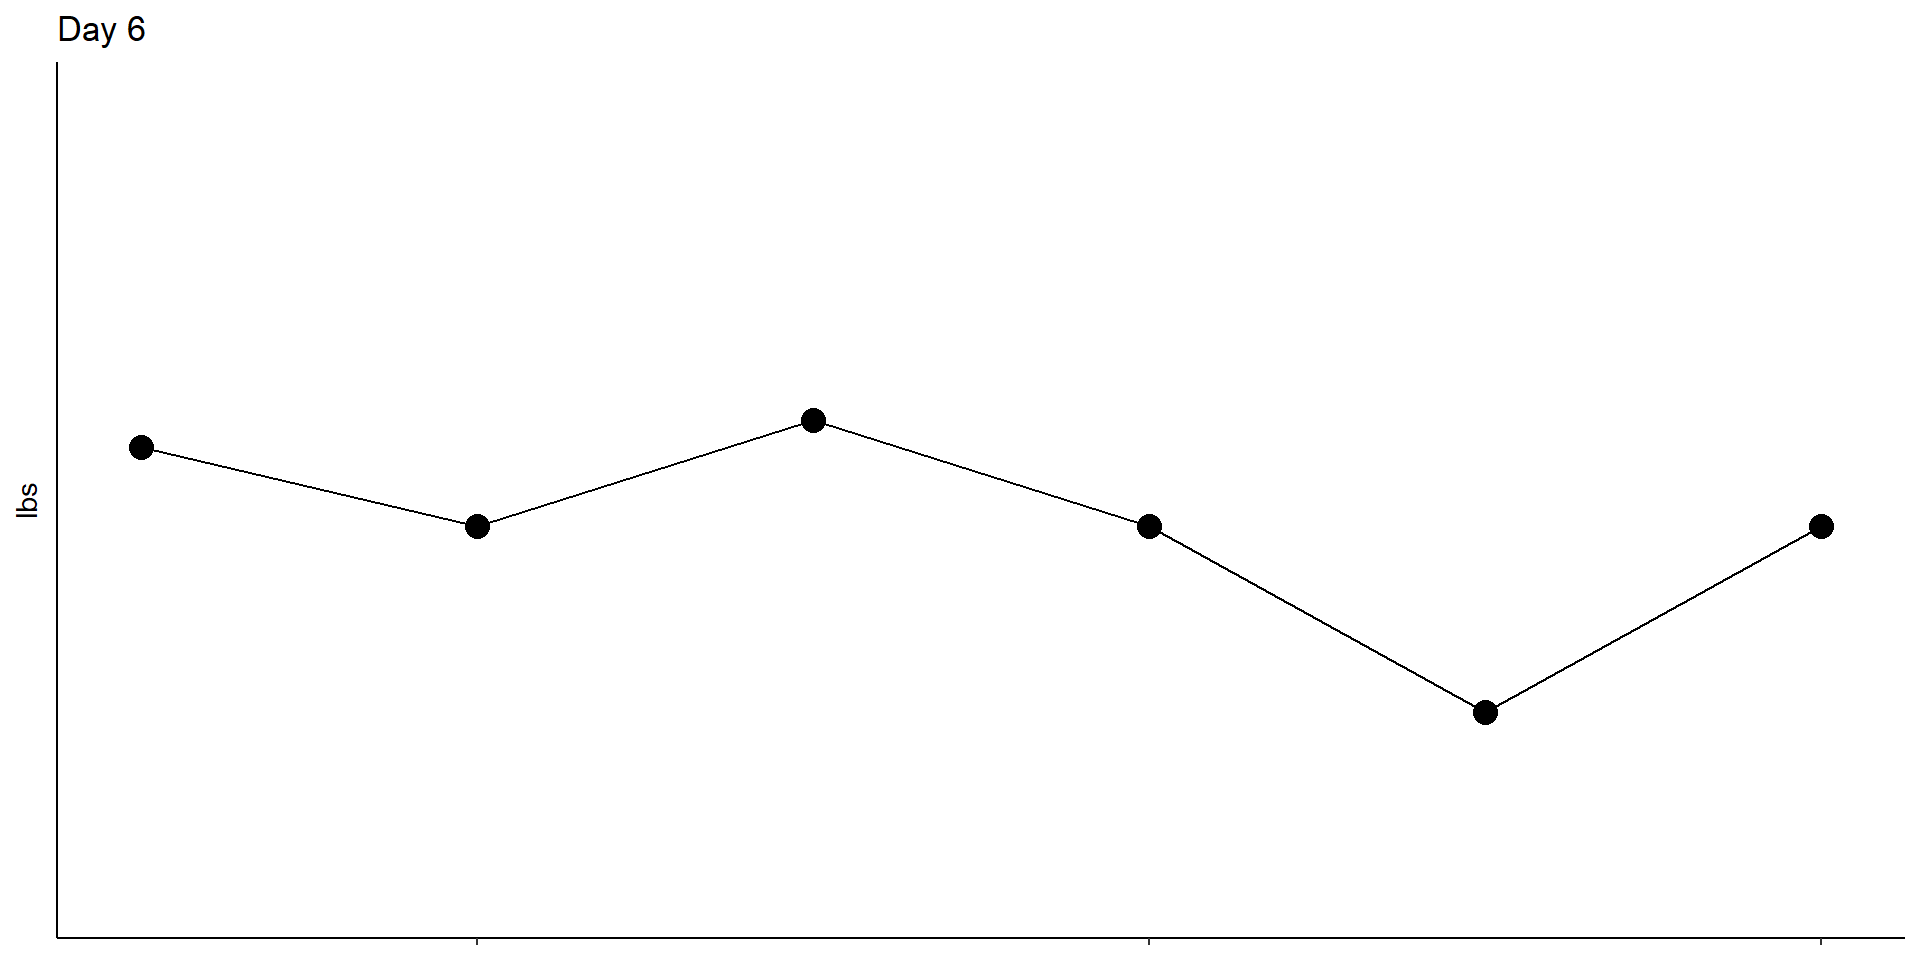
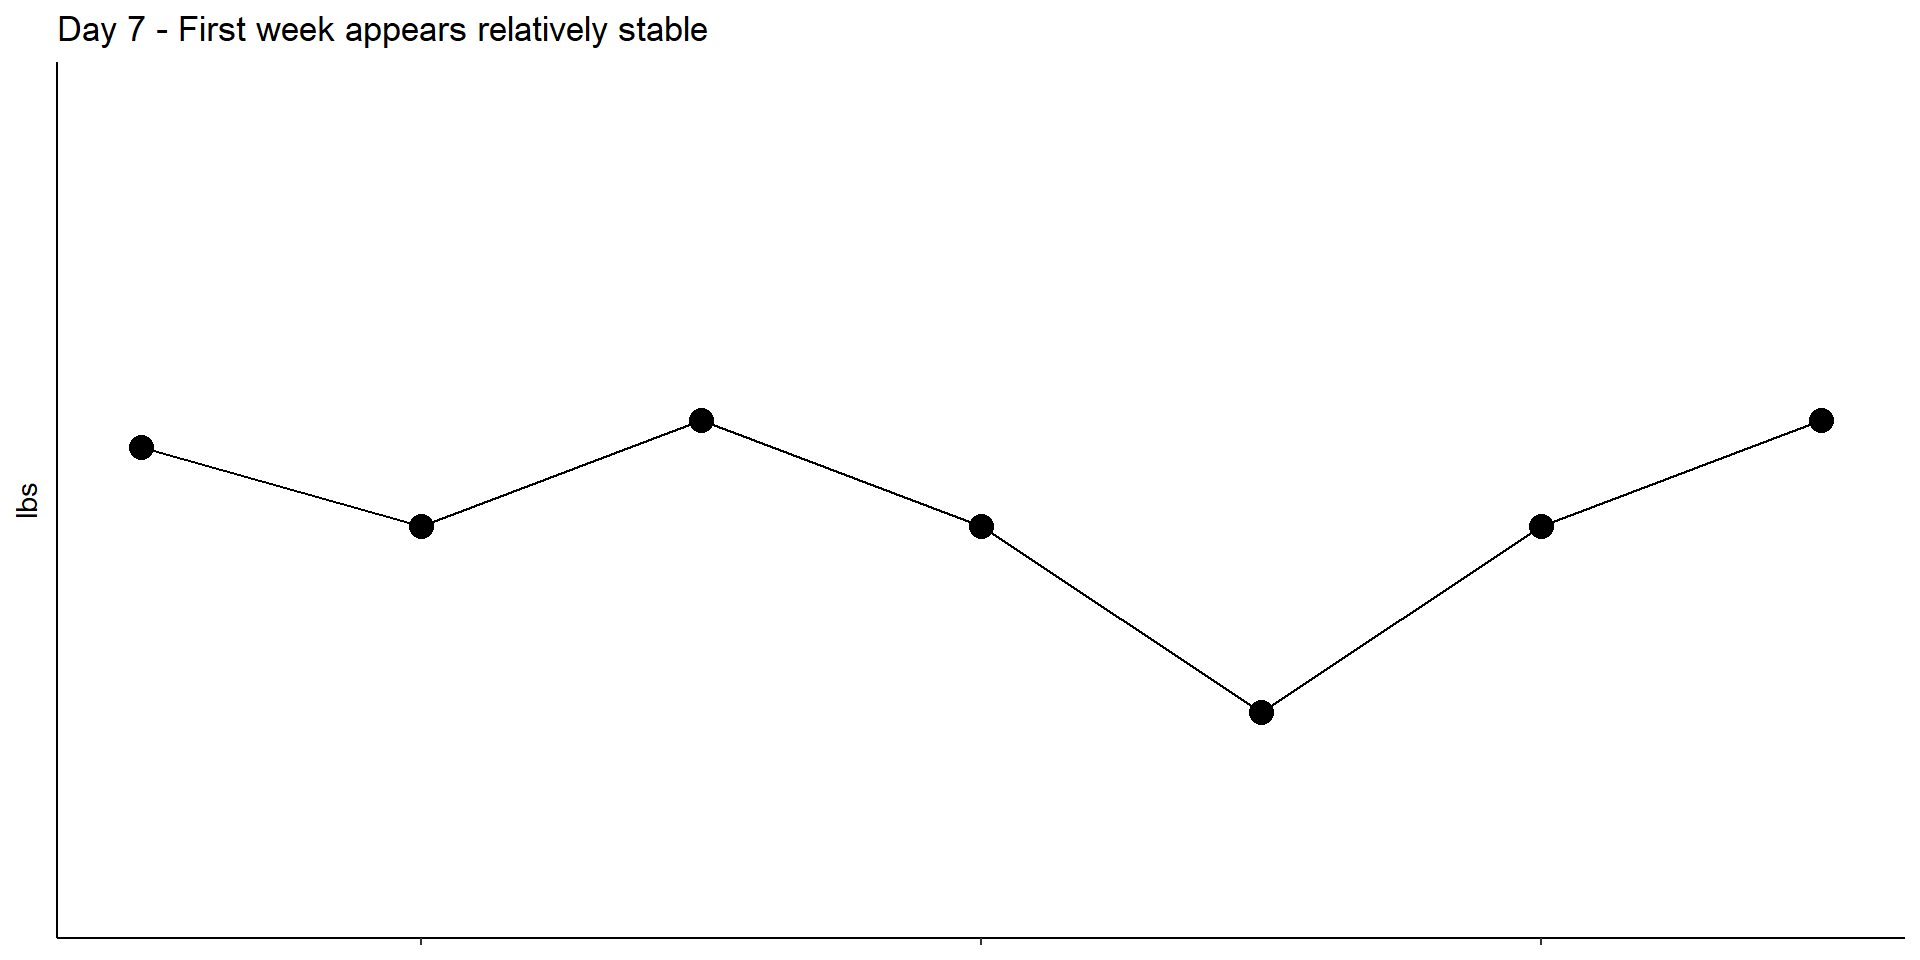
SPC project updates today

diff --git a/docs/realtime-SPC/index.html b/docs/realtime-SPC/index.html
@@ -129,19 +129,9 @@ ul.task-list li input[type="checkbox"] {
   <li><a href="#why-is-this-project-important" id="toc-why-is-this-project-important" class="nav-link" data-scroll-target="#why-is-this-project-important">Why is this project important?</a>
   <ul class="collapse">
   <li><a href="#starting-a-new-control-chart" id="toc-starting-a-new-control-chart" class="nav-link" data-scroll-target="#starting-a-new-control-chart">Starting a new control chart</a></li>
-  <li><a href="#run-chart-to-begin" id="toc-run-chart-to-begin" class="nav-link" data-scroll-target="#run-chart-to-begin">Run Chart to begin</a>
-  <ul class="collapse">
+  <li><a href="#run-chart-to-begin" id="toc-run-chart-to-begin" class="nav-link" data-scroll-target="#run-chart-to-begin">Run Chart to begin</a></li>
   <li><a href="#first-point" id="toc-first-point" class="nav-link" data-scroll-target="#first-point">First point</a></li>
-  <li><a href="#day-2-62425" id="toc-day-2-62425" class="nav-link" data-scroll-target="#day-2-62425">Day 2, 6/24/25</a></li>
-  <li><a href="#day-3-62525" id="toc-day-3-62525" class="nav-link" data-scroll-target="#day-3-62525">Day 3, 6/25/25</a></li>
-  <li><a href="#day-4-62625" id="toc-day-4-62625" class="nav-link" data-scroll-target="#day-4-62625">Day 4, 6/26/25</a></li>
-  <li><a href="#day-5-62725" id="toc-day-5-62725" class="nav-link" data-scroll-target="#day-5-62725">Day 5, 6/27/25</a></li>
-  <li><a href="#day-6-62825" id="toc-day-6-62825" class="nav-link" data-scroll-target="#day-6-62825">Day 6, 6/28/25</a></li>
-  <li><a href="#day-7-62925" id="toc-day-7-62925" class="nav-link" data-scroll-target="#day-7-62925">Day 7, 6/29/25</a></li>
-  <li><a href="#day-8-63025" id="toc-day-8-63025" class="nav-link" data-scroll-target="#day-8-63025">Day 8, 6/30/25</a></li>
-  <li><a href="#day-9-7125" id="toc-day-9-7125" class="nav-link" data-scroll-target="#day-9-7125">Day 9, 7/1/25</a></li>
-  </ul></li>
-  <li><a href="#first-control-limits-set" id="toc-first-control-limits-set" class="nav-link" data-scroll-target="#first-control-limits-set">First Control Limits Set</a></li>
+  <li><a href="#first-control-limits-set-day-9" id="toc-first-control-limits-set-day-9" class="nav-link" data-scroll-target="#first-control-limits-set-day-9">First Control Limits Set (Day 9)</a></li>
   </ul></li>
   </ul>
 </nav>
@@ -204,8 +194,9 @@ ul.task-list li input[type="checkbox"] {
 <section id="run-chart-to-begin" class="level2">
 <h2 class="anchored" data-anchor-id="run-chart-to-begin">Run Chart to begin</h2>
 <p>To start out, I’m just going to plot each point in order as it happens. This is sometimes called a run chart.</p>
-<section id="first-point" class="level3">
-<h3 class="anchored" data-anchor-id="first-point">First point</h3>
+</section>
+<section id="first-point" class="level2">
+<h2 class="anchored" data-anchor-id="first-point">First point</h2>
 <p>Just a note to get started, I’m not going to share my actual weights here. One great thing about a control chart is that I can create it and share it, and you can view and interpret it without labeled numbers. Just the points themselves and the control limits.</p>
 <p>I started on 6/23, let’s look at this first point.</p>
 <div class="cell">
@@ -227,10 +218,11 @@ ul.task-list li input[type="checkbox"] {
 </div>
 </div>
 </div>
-<p>Here we see the journey, I know where I’m beginning, and where I want to be. We don’t know what it’s going to look like in between! Once I reach the goal I’ll move to maintenance tracking, it isn’t so useful to improve something then lose the progress later.</p>
-</section>
-<section id="day-2-62425" class="level3">
-<h3 class="anchored" data-anchor-id="day-2-62425">Day 2, 6/24/25</h3>
+<p>Here we see the journey from where I am to where I want to be. We don’t know what it’s going to look like in between! Once I reach the goal I’ll move to maintenance tracking, it isn’t so useful to improve something then lose the progress later.</p>
+<div class="tabset-margin-container"></div><div class="panel-tabset nav-pills">
+<ul class="nav nav-tabs" role="tablist"><li class="nav-item" role="presentation"><a class="nav-link active" id="tabset-1-1-tab" data-bs-toggle="tab" data-bs-target="#tabset-1-1" role="tab" aria-controls="tabset-1-1" aria-selected="true">Day 2, 6/24/25</a></li><li class="nav-item" role="presentation"><a class="nav-link" id="tabset-1-2-tab" data-bs-toggle="tab" data-bs-target="#tabset-1-2" role="tab" aria-controls="tabset-1-2" aria-selected="false">Day 3, 6/25/25</a></li><li class="nav-item" role="presentation"><a class="nav-link" id="tabset-1-3-tab" data-bs-toggle="tab" data-bs-target="#tabset-1-3" role="tab" aria-controls="tabset-1-3" aria-selected="false">Day 4, 6/26/25</a></li><li class="nav-item" role="presentation"><a class="nav-link" id="tabset-1-4-tab" data-bs-toggle="tab" data-bs-target="#tabset-1-4" role="tab" aria-controls="tabset-1-4" aria-selected="false">Day 5, 6/27/25</a></li><li class="nav-item" role="presentation"><a class="nav-link" id="tabset-1-5-tab" data-bs-toggle="tab" data-bs-target="#tabset-1-5" role="tab" aria-controls="tabset-1-5" aria-selected="false">Day 6, 6/28/25</a></li><li class="nav-item" role="presentation"><a class="nav-link" id="tabset-1-6-tab" data-bs-toggle="tab" data-bs-target="#tabset-1-6" role="tab" aria-controls="tabset-1-6" aria-selected="false">Day 7, 6/29/25</a></li><li class="nav-item" role="presentation"><a class="nav-link" id="tabset-1-7-tab" data-bs-toggle="tab" data-bs-target="#tabset-1-7" role="tab" aria-controls="tabset-1-7" aria-selected="false">Day 8, 6/30/25</a></li><li class="nav-item" role="presentation"><a class="nav-link" id="tabset-1-8-tab" data-bs-toggle="tab" data-bs-target="#tabset-1-8" role="tab" aria-controls="tabset-1-8" aria-selected="false">Day 9, 7/1/25</a></li></ul>
+<div class="tab-content nav-pills">
+<div id="tabset-1-1" class="tab-pane active" role="tabpanel" aria-labelledby="tabset-1-1-tab">
 <div class="cell">
 <div class="cell-output-display">
 <div>
@@ -241,9 +233,8 @@ ul.task-list li input[type="checkbox"] {
 </div>
 </div>
 <p>It’s hard to tell if anything is happening yet. I set the y limits to be constant, so the y axis isn’t changing with every new dot.</p>
-</section>
-<section id="day-3-62525" class="level3">
-<h3 class="anchored" data-anchor-id="day-3-62525">Day 3, 6/25/25</h3>
+</div>
+<div id="tabset-1-2" class="tab-pane" role="tabpanel" aria-labelledby="tabset-1-2-tab">
 <div class="cell">
 <div class="cell-output-display">
 <div>
@@ -255,9 +246,8 @@ ul.task-list li input[type="checkbox"] {
 </div>
 <p>Ok we are seeing some day to day variation. This is the type of variation that can be misleading! If I was weighing myself weekly or monthly and seeing this kind of variation, I might alternate between being encouraged and discouraged.</p>
 <p>I know you can’t see the y axis scale, I’ll tell you from day 1 to day 2 the weight measurement decreased by 0.6 lbs, and from day 2 to day 3 it increased by 0.8 lbs. This variation doesn’t indicate an actual lasting change, it could be for many reasons but for the context of reaching my goal, it’s not telling me anything useful.</p>
-</section>
-<section id="day-4-62625" class="level3">
-<h3 class="anchored" data-anchor-id="day-4-62625">Day 4, 6/26/25</h3>
+</div>
+<div id="tabset-1-3" class="tab-pane" role="tabpanel" aria-labelledby="tabset-1-3-tab">
 <div class="cell">
 <div class="cell-output-display">
 <div>
@@ -268,9 +258,8 @@ ul.task-list li input[type="checkbox"] {
 </div>
 </div>
 <p>On day 4 the measurement went “down” again, so let’s see what day 5 holds next.</p>
-</section>
-<section id="day-5-62725" class="level3">
-<h3 class="anchored" data-anchor-id="day-5-62725">Day 5, 6/27/25</h3>
+</div>
+<div id="tabset-1-4" class="tab-pane" role="tabpanel" aria-labelledby="tabset-1-4-tab">
 <div class="cell">
 <div class="cell-output-display">
 <div>
@@ -280,7 +269,9 @@ ul.task-list li input[type="checkbox"] {
 </div>
 </div>
 </div>
-<p>Wow! That’s pretty cool, down again, and what <em>looks like</em> a large decrease! Maybe a sustained decrease! It’s hard not to be encouraged by something like this. I’m gonna be crushed on day 6 if it goes back up again. I wasn’t going to do this yet, but let’s make a control chart to see if I have a reason to be be encouraged yet…</p>
+<p>Wow! That’s pretty cool, down again, and what <em>looks like</em> a large decrease! Maybe a sustained decrease! It’s hard not to be encouraged by something like this. I’m gonna be crushed on day 6 if it goes back up again.</p>
+</div>
+<div id="tabset-1-5" class="tab-pane" role="tabpanel" aria-labelledby="tabset-1-5-tab">
 <div class="cell">
 <div class="cell-output-display">
 <div>
@@ -290,30 +281,14 @@ ul.task-list li input[type="checkbox"] {
 </div>
 </div>
 </div>
-<p>There we have it. Based on what I know so far, my limited knowledge of 5 datapoints, I don’t have a reason to think this process has changed yet. The blue line represents my estimate of the location of my weight, what it’s current value is. This is the average (mean). The red lines are control limits. If the process stays the same as it was when the limits were calculated, we expect almost every future point to be somewhere between these two (red) limits.</p>
-<p>Because the day 5 weigh-in is inside the limits, I can’t say my process (weight) has changed yet.</p>
-<p>But you say, you don’t have enough data to know anyways! That’s right, I don’t. We are just getting started. I’m curious to see what day 6 holds.</p>
-</section>
-<section id="day-6-62825" class="level3">
-<h3 class="anchored" data-anchor-id="day-6-62825">Day 6, 6/28/25</h3>
+<p>Looks like day 6 went back “up” again. This isn’t unusual for a process with variation over time. Right now we’re getting a good estimate of how much the measurement can change day to day, and about where it’s located (average).</p>
+</div>
+<div id="tabset-1-6" class="tab-pane" role="tabpanel" aria-labelledby="tabset-1-6-tab">
 <div class="cell">
 <div class="cell-output-display">
 <div>
 <figure class="figure">
 <p><img src="index_files/figure-html/unnamed-chunk-10-1.png" class="img-fluid figure-img" width="960"></p>
-</figure>
-</div>
-</div>
-</div>
-<p>Looks like day 6 went back “up” again. This isn’t unusual for a process with variation over time. Right now we’re getting a good estimate of how much the measurement can change day to day, and about where it’s located (average)</p>
-</section>
-<section id="day-7-62925" class="level3">
-<h3 class="anchored" data-anchor-id="day-7-62925">Day 7, 6/29/25</h3>
-<div class="cell">
-<div class="cell-output-display">
-<div>
-<figure class="figure">
-<p><img src="index_files/figure-html/unnamed-chunk-11-1.png" class="img-fluid figure-img" width="960"></p>
 </figure>
 </div>
 </div>
@@ -325,9 +300,20 @@ ul.task-list li input[type="checkbox"] {
 <li><p>Keep tracking daily, for at least another week (maybe 2), to get a feel for what’s happening.</p></li>
 <li><p>Start trying more deliberately to change the system. This brings up an important point, with SPC we want to also track relevant inputs. I’ll start logging exercise data - to assess how much I’m doing, also to motivate me to do more. If I see an empty exercise lot, I’ll be motivated to make sure it’s filled.</p></li>
 </ol>
-</section>
-<section id="day-8-63025" class="level3">
-<h3 class="anchored" data-anchor-id="day-8-63025">Day 8, 6/30/25</h3>
+</div>
+<div id="tabset-1-7" class="tab-pane" role="tabpanel" aria-labelledby="tabset-1-7-tab">
+<div class="cell">
+<div class="cell-output-display">
+<div>
+<figure class="figure">
+<p><img src="index_files/figure-html/unnamed-chunk-11-1.png" class="img-fluid figure-img" width="960"></p>
+</figure>
+</div>
+</div>
+</div>
+<p>Day 8, back “down” a little again. I know enough to say it’s relatively stable, at least I’m not gaining, but let’s emphasize progress. Watch closely as I attempt to drive progress moving forward.</p>
+</div>
+<div id="tabset-1-8" class="tab-pane" role="tabpanel" aria-labelledby="tabset-1-8-tab">
 <div class="cell">
 <div class="cell-output-display">
 <div>
@@ -337,27 +323,32 @@ ul.task-list li input[type="checkbox"] {
 </div>
 </div>
 </div>
-<p>Day 8, back “down” a little again. I know enough to say it’s relatively stable, at least I’m not gaining, but let’s emphasize progress. Watch closely as I attempt to drive progress moving forward.</p>
+<p>Day 9, I agree with my assessment yesterday that this process is unchanged (so far). My weight seems to be stable around the average. I know enough, I might as well start using a control chart.</p>
+</div>
+</div>
+</div>
 </section>
-<section id="day-9-7125" class="level3">
-<h3 class="anchored" data-anchor-id="day-9-7125">Day 9, 7/1/25</h3>
+<section id="first-control-limits-set-day-9" class="level2">
+<h2 class="anchored" data-anchor-id="first-control-limits-set-day-9">First Control Limits Set (Day 9)</h2>
+<p>I’m using the values from days 1 - 9 to set my baseline or reference control limits. These will be used for the control chart moving forward. The limits represent the current state - based on what I know so far, given the data (and variation observed), I expect future values to be centered around the average, and within the limits - until something happens or changes.</p>
+<p>If I observe a point outside the limits, I will have a <em>potential signal</em> that something might be different. If the point is above the upper limit it’s undesirable, it means I most likely gained weight. A point below the lower limit is desirable - this shows that I probably have actually reduced my weight.</p>
+<p>Control charts are so valuable, because they’re going to help me not worry if it looks like I’ve gained, and they will help me know when I’m progressing in the right direction. Without the limits to put the data in context, the variation in the data makes it hard to know what’s really happening point to point.</p>
 <div class="cell">
 <div class="cell-output-display">
 <div>
 <figure class="figure">
-<p><img src="index_files/figure-html/unnamed-chunk-13-1.png" class="img-fluid figure-img" width="960"></p>
+<p><img src="index_files/figure-html/unnamed-chunk-14-1.png" class="img-fluid figure-img" width="960"></p>
 </figure>
 </div>
 </div>
 </div>
-<p>Day 9, I agree with my assessment yesterday that this process is unchanged (so far). My weight seems to be stable around the average. I know enough, I might as well start using a control chart.</p>
-</section>
-</section>
-<section id="first-control-limits-set" class="level2">
-<h2 class="anchored" data-anchor-id="first-control-limits-set">First Control Limits Set</h2>
-<p>I’m using the values from days 1 - 9 to set my baseline or reference control limits. These will be used for the control chart moving forward. The limits represent the current state - based on what I know so far, given the data (and variation observed), I expect future values to be centered around the average, and within the limits - until something happens or changes.</p>
-<p>If I observe a point outside the limits, I will have a <em>potential signal</em> that something might be different. If the point is above the upper limit it’s undesirable, it means I most likely gained weight. A point below the lower limit is desirable - this shows that I probably have actually reduced my weight.</p>
-<p>Control charts are so valuable, because they’re going to help me not worry if it looks like I’ve gained, and they will help me know when I’m progressing in the right direction. Without the limits to put the data in context, the variation in the data makes it hard to know what’s really happening point to point.</p>
+<p>To put this in context, our best estimate of my current weight is the blue line. The lower limit (red) is <strong>over 2 pounds</strong> less than the average.</p>
+<p>I might say: “Given how much variation there is in the data from day to day, it will be difficult to detect a change unless it is more than 2 pounds different from where we are starting”.</p>
+<p>I can’t reliably detect anything less than a 2 - 2.5 lb change! That’s good to know - I won’t get discouraged. It might take 1, 2, or even 3 weeks to lose that much.</p>
+<div class="tabset-margin-container"></div><div class="panel-tabset nav-pills">
+<ul class="nav nav-tabs" role="tablist"><li class="nav-item" role="presentation"><a class="nav-link active" id="tabset-2-1-tab" data-bs-toggle="tab" data-bs-target="#tabset-2-1" role="tab" aria-controls="tabset-2-1" aria-selected="true">Day 10, 7/2/25</a></li><li class="nav-item" role="presentation"><a class="nav-link" id="tabset-2-2-tab" data-bs-toggle="tab" data-bs-target="#tabset-2-2" role="tab" aria-controls="tabset-2-2" aria-selected="false">Day 11, 7/3/25</a></li><li class="nav-item" role="presentation"><a class="nav-link" id="tabset-2-3-tab" data-bs-toggle="tab" data-bs-target="#tabset-2-3" role="tab" aria-controls="tabset-2-3" aria-selected="false">Day 12, 7/4/25</a></li><li class="nav-item" role="presentation"><a class="nav-link" id="tabset-2-4-tab" data-bs-toggle="tab" data-bs-target="#tabset-2-4" role="tab" aria-controls="tabset-2-4" aria-selected="false">Day 13, Day 14</a></li><li class="nav-item" role="presentation"><a class="nav-link" id="tabset-2-5-tab" data-bs-toggle="tab" data-bs-target="#tabset-2-5" role="tab" aria-controls="tabset-2-5" aria-selected="false">Day 15, 7/7/25</a></li></ul>
+<div class="tab-content nav-pills">
+<div id="tabset-2-1" class="tab-pane active" role="tabpanel" aria-labelledby="tabset-2-1-tab">
 <div class="cell">
 <div class="cell-output-display">
 <div>
@@ -366,10 +357,77 @@ ul.task-list li input[type="checkbox"] {
 </figure>
 </div>
 </div>
+<div class="cell-output cell-output-stdout">
+<pre><code>&lt;ScaleContinuousPosition&gt;
+ Range:  
+ Limits:  243 --  249</code></pre>
 </div>
-<p>To put this in context, our best estimate of my current weight is the blue line. The lower limit (red) is <strong>over 2 pounds</strong> less than the average.</p>
-<p>I might say: “Given how much variation there is in the data from day to day, it will be difficult to detect a change unless it is more than 2 pounds different from where we are starting”.</p>
-<p>I can’t reliably detect anything less than a 2 - 2.5 lb change! That’s good to know - I won’t get discouraged. It might take 1, 2, or even 3 weeks to lose that much.</p>
+</div>
+<p>Day 10 assessment: No detectable change</p>
+<p>Day 10 decision: evaluate inputs, try to create change</p>
+</div>
+<div id="tabset-2-2" class="tab-pane" role="tabpanel" aria-labelledby="tabset-2-2-tab">
+<div class="cell">
+<div class="cell-output-display">
+<div>
+<figure class="figure">
+<p><img src="index_files/figure-html/unnamed-chunk-16-1.png" class="img-fluid figure-img" width="960"></p>
+</figure>
+</div>
+</div>
+<div class="cell-output cell-output-stdout">
+<pre><code>&lt;ScaleContinuousPosition&gt;
+ Range:  
+ Limits:  243 --  249</code></pre>
+</div>
+</div>
+<p>Day 11 assessment: No detectable change</p>
+<p>Day 11 decision: evaluate inputs, try to create change</p>
+<p>Day 11 comment: interesting to see 4 points in a row “hugging” the average. So far 7 of 11 points appear “very close” to the average, actually slightly below the average. I don’t know that this means anything.</p>
+</div>
+<div id="tabset-2-3" class="tab-pane" role="tabpanel" aria-labelledby="tabset-2-3-tab">
+<div class="cell">
+<div class="cell-output-display">
+<div>
+<figure class="figure">
+<p><img src="index_files/figure-html/unnamed-chunk-17-1.png" class="img-fluid figure-img" width="960"></p>
+</figure>
+</div>
+</div>
+<div class="cell-output cell-output-stdout">
+<pre><code>&lt;ScaleContinuousPosition&gt;
+ Range:  
+ Limits:  243 --  249</code></pre>
+</div>
+</div>
+<p>Day 12 assessment: No detectable change</p>
+<p>Day 12 decision: evaluate inputs, try to create change</p>
+<p>Day 12 comment: That’s a big jump on day 12! Or it looks like a big jump. Since it’s within the control limits, I believe the weight has not actually changed yet. This is variation on display.</p>
+</div>
+<div id="tabset-2-4" class="tab-pane" role="tabpanel" aria-labelledby="tabset-2-4-tab">
+<p>I was traveling these days and didn’t check in. We can work with a couple missing observations, we won’t know what happened on those days but with the control chart we’ll continue to monitor for change.</p>
+</div>
+<div id="tabset-2-5" class="tab-pane" role="tabpanel" aria-labelledby="tabset-2-5-tab">
+<div class="cell">
+<div class="cell-output-display">
+<div>
+<figure class="figure">
+<p><img src="index_files/figure-html/unnamed-chunk-18-1.png" class="img-fluid figure-img" width="960"></p>
+</figure>
+</div>
+</div>
+<div class="cell-output cell-output-stdout">
+<pre><code>&lt;ScaleContinuousPosition&gt;
+ Range:  
+ Limits:  243 --  249</code></pre>
+</div>
+</div>
+<p>Day 15 assessment: No detectable change</p>
+<p>Day 15 decision: evaluate inputs, try to create change. Start tracking physical activity and minutes.</p>
+<p>Day 15 comment: Back from the holiday, time to get serious. Continue daily tracking.</p>
+</div>
+</div>
+</div>
 
 
 </section>
